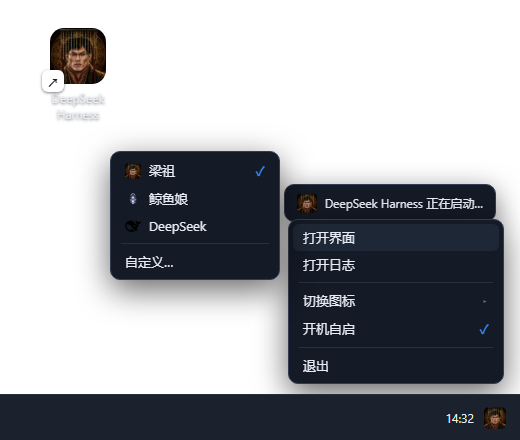
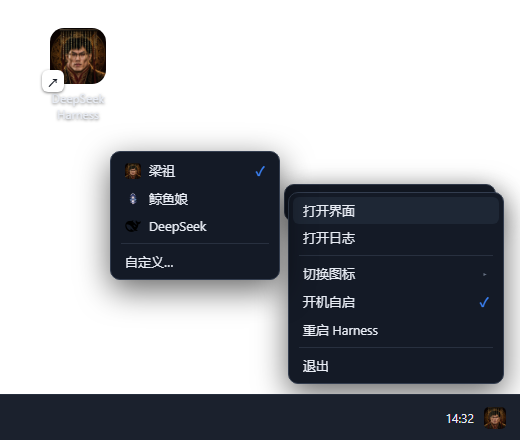
feat: restart harness from the tray menu (v1.1.19)
- new 重启 Harness item: stops and relaunches dsh web with CreateNoWindow,
  reopens the browser once the port is back; README and preview updated

diff --git a/docs/preview-tray.html b/docs/preview-tray.html
@@ -87,6 +87,7 @@
     <div class="sep"></div>
     <div class="item">切换图标 <span class="arrow-right">▸</span></div>
     <div class="item">开机自启 <span class="check">✓</span></div>
+    <div class="item">重启 Harness</div>
     <div class="sep"></div>
     <div class="item">退出</div>
   </div>

diff --git a/README.md b/README.md
@@ -52,7 +52,7 @@ DeepSeek Harness（dsh）默认在终端里前台运行 `dsh web`——必须留
 
 ## 界面预览
 
-桌面快捷方式 → 无窗口启动 → 托盘图标常驻（右键菜单：打开界面 / 打开日志 / 切换图标 / 开机自启 / 退出），harness 就绪自动打开浏览器：
+桌面快捷方式 → 无窗口启动 → 托盘图标常驻（右键菜单：打开界面 / 打开日志 / 切换图标 / 开机自启 / 重启 Harness / 退出），harness 就绪自动打开浏览器：
 
 ![托盘启动器预览：桌面快捷方式（梁祖图标）+ 启动气泡 + 托盘右键菜单（含图标切换子菜单与开机自启开关）+ 任务栏托盘图标](docs/preview-tray.png)
 
@@ -124,6 +124,7 @@ powershell -NoProfile -ExecutionPolicy Bypass -File install.ps1 -Icon D:\icons\l
 | 双击托盘图标 | 打开界面 |
 | 托盘「打开界面」 | 浏览器打开 Web GUI |
 | 托盘「打开日志」 | 记事本打开 stdout 日志 |
+| 托盘「重启 Harness」 | 停止并重新拉起 dsh web（无窗口），就绪后自动重开浏览器 |
 | 托盘「切换图标」 | 弹出子菜单：梁祖 / 鲸鱼娘 / DeepSeek / 自定义…（选择后托盘与快捷方式图标立即同步，选中项打勾） |
 | 托盘「开机自启」 | 勾选状态 = 是否已注册开机自启；点击即切换（自动创建/删除启动文件夹里的快捷方式，气泡提示结果） |
 | 托盘「退出」 | 停止 harness + 关闭托盘（全部退出） |
